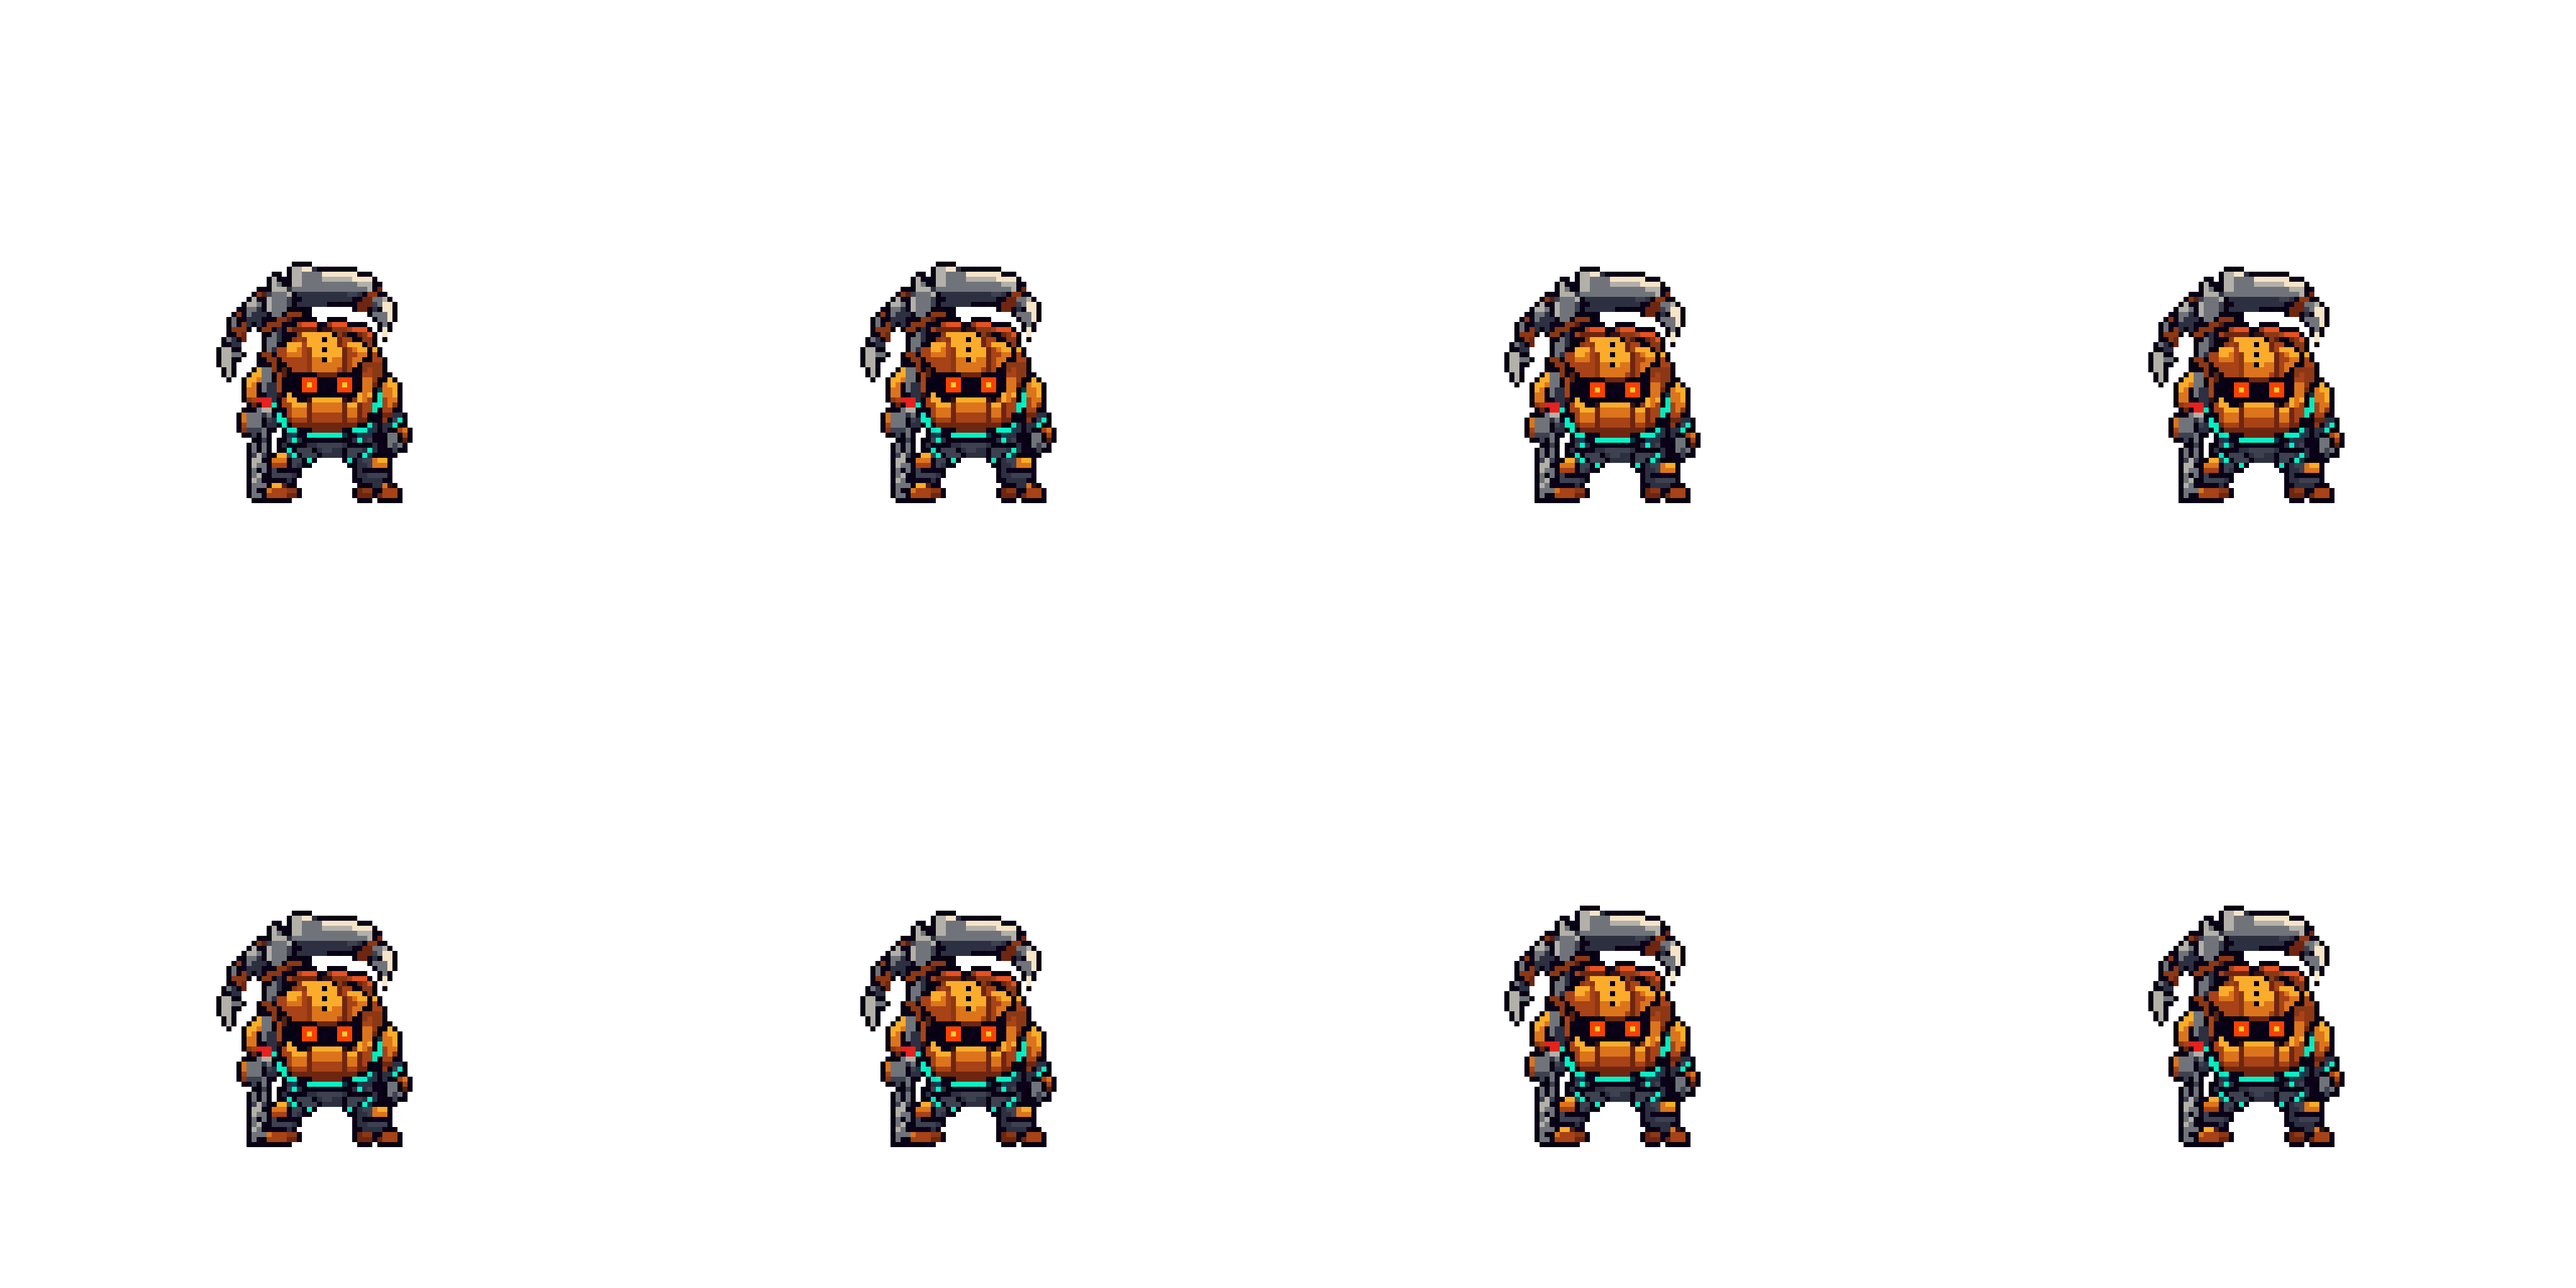
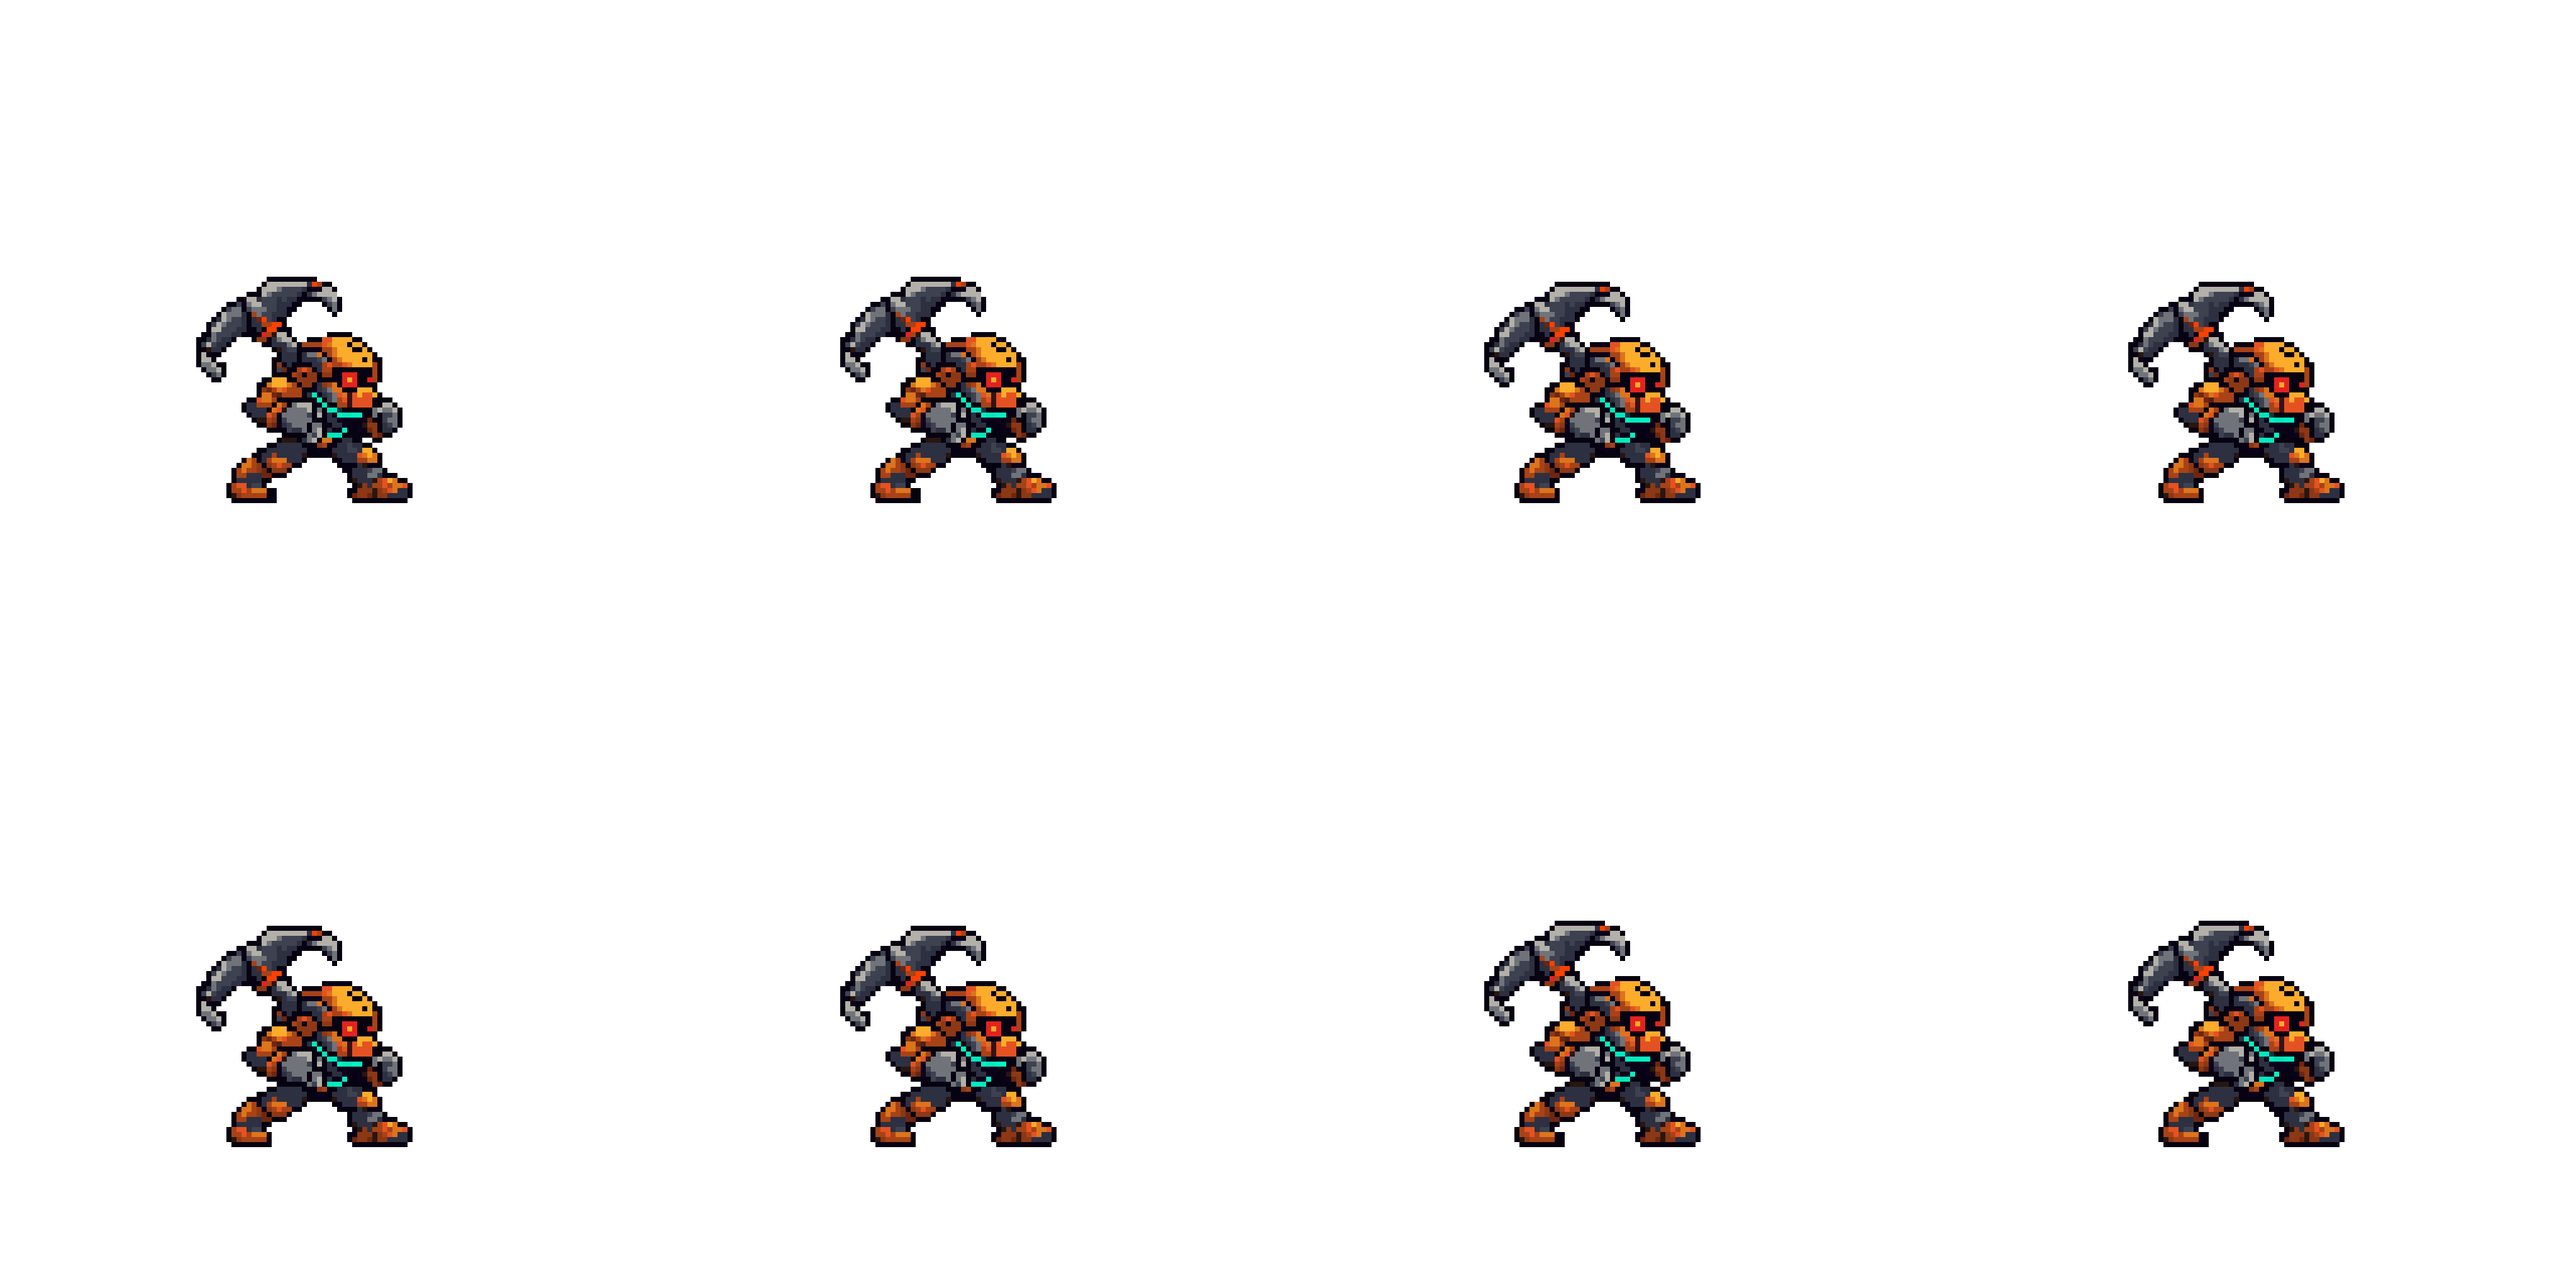
Nautilus: the idle side-on too (the user: 「待机图也改成侧面的吧 不然太奇怪了」) - W+E's first frame, breathing a row over the legs

diff --git a/tools/art/fix_nautilus_strips2.py b/tools/art/fix_nautilus_strips2.py
@@ -18,8 +18,8 @@ whole); what is fixed here:
   4. dead 2-8: Codex drew another anchor (a ring on top, a thin stock, small flukes) standing beside him; it goes
      (every square left of a per-row boundary, B) and the anchor he carries everywhere else (attack 5's, cut above the
      fist) stands on its crown in its place, behind him, the outline closed (rigkit.finish).
-The idle stays the design breathing (tools/art/rig_nautilus.py's idle strip, its standing point 64): Codex returned the
-design unchanged. Writes assets/source/native/nautilus_<tag>.png (8x) and nautilus_cells.json; then
+The idle is side-on too (the user: 「待机图也改成侧面的吧 不然太奇怪了」, after the front-on design idle beside the side-on
+actions): W+E's first frame, breathing (the body above the hip band sinks a row over the legs). Writes assets/source/native/nautilus_<tag>.png (8x) and nautilus_cells.json; then
 python tools/art/import_native.py --hero nautilus.
 """
 import argparse
@@ -120,6 +120,8 @@ DEAD_B[8] = DEAD_B[7]
 DEAD_LEFT = {2: 23, 3: 34, 4: 28, 5: 49, 6: 47, 7: 42, 8: 42}   # the new anchor's left column (its crown on the soles)
 ANCHOR_BOX = (40, 58, 28, 60)                                   # attack 5: rows, columns of the anchor above the fist
 # 3: ult frames taken from other strips (ult frame <- (tag, frame)), 1-based
+IDLE_BREATH = [0, 0, 1, 1, 1, 1, 0, 0]
+IDLE_CUT = 86                                                   # the last row that sinks (the hip band's)
 ULT_FROM = {3: ("skill", 3), 5: ("attack", 4), 6: ("attack", 4), 7: ("attack", 5)}
 
 
@@ -154,17 +156,26 @@ def build():
         K.put(c, f, 0, 0)
         c[RN.PIVOT[1] + 12:] = 0
         dead[sl] = K.finish(c, OUT, RN.PIVOT[1] + 11)
-    # the idle: the design breathing (rig_nautilus), its own standing point
-    R = RN.Rig(RN.Parts())
-    idle = [RN.idle_frame(R, b) for b in RN.BREATH]
+    # the idle: side-on like every action (the user: 「待机图也改成侧面的吧 不然太奇怪了」) - W+E's first frame (Codex's
+    # braced stance, both boots flat, the anchor on his back), breathing: everything above the crotch (rows to
+    # IDLE_CUT) sinks a row over the legs in frames 3-6
     for t in cells["tags"].values():
         for fr in t:
             fr.pop("head", None)
-    cells["tags"]["idle"] = [{"pivot": list(RN.PIVOT), "ms": m} for m in RN.MS["idle"]]
-    cols, rows = K.layout(len(idle))
+    stand = strips["skill2"][cell(0, n["skill2"], cw, ch)]
+    pivot = list(cells["tags"]["skill2"][0]["pivot"])
+    cells["tags"]["idle"] = [{"pivot": pivot, "ms": m} for m in RN.MS["idle"]]
+    cols, rows = K.layout(len(IDLE_BREATH))
     sheet = np.zeros((rows * ch, cols * cw, 4), np.uint8)
-    for k, fr in enumerate(idle):
-        sheet[cell(k, len(idle), cw, ch)] = K.finish(fr, OUT, RN.PIVOT[1] + 11)
+    for k, b in enumerate(IDLE_BREATH):
+        fr = stand.copy()
+        if b:
+            up = np.zeros_like(stand)
+            up[:IDLE_CUT + 1] = stand[:IDLE_CUT + 1]
+            fr[:IDLE_CUT + 1] = 0
+            K.put(fr, up, 0, b)
+            fr = K.finish(fr, OUT, RN.PIVOT[1] + 11)
+        sheet[cell(k, len(IDLE_BREATH), cw, ch)] = fr
     strips["idle"] = sheet
     return strips, cells
 
